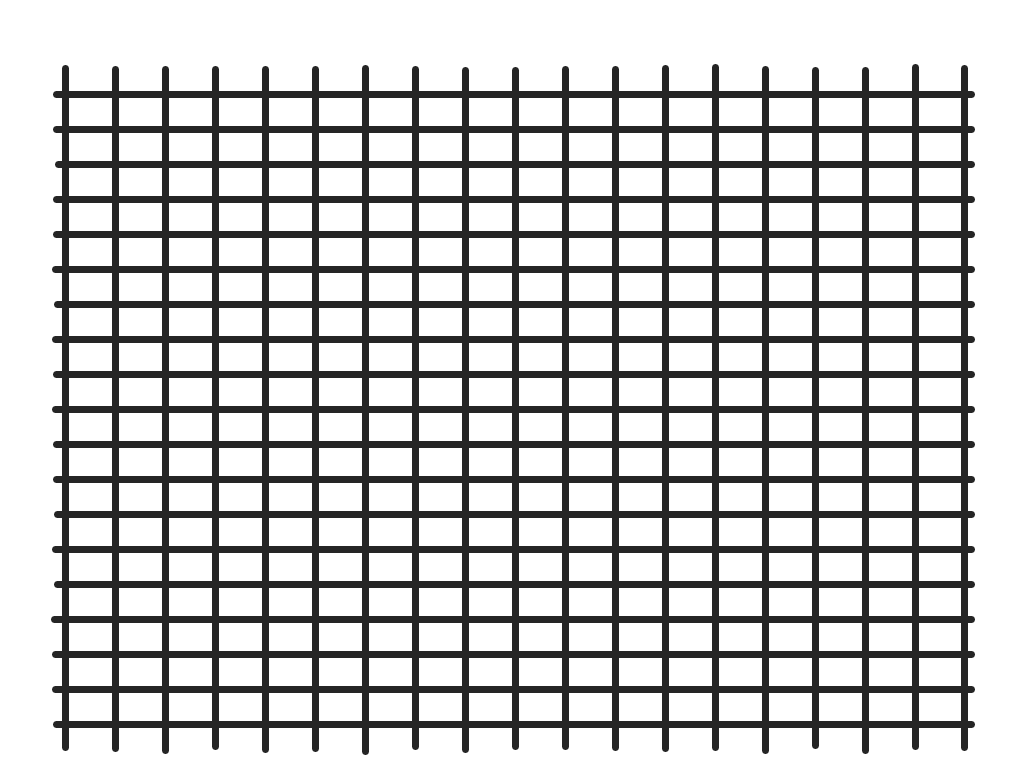
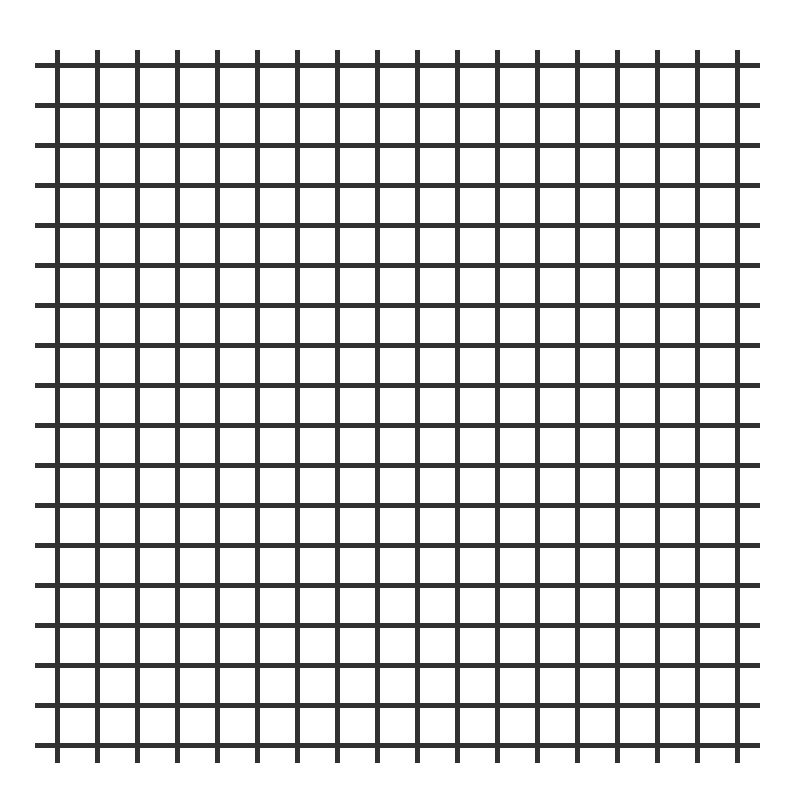
update goban.png and stone

diff --git a/src/GameState.cpp b/src/GameState.cpp
@@ -3,6 +3,9 @@
 
 #include "GameState.h"
 
+#define AXEX 300
+#define AXEY 190
+#define SPACE 40
 
 GameState::GameState(GameAction *gameAction, Gomoku::MainMenu::MODE mode) : AState(gameAction), _printer(_goban), _black(nullptr), _white(nullptr)
 {
@@ -63,21 +66,23 @@ void					GameState::averagePosition(Stone &p, int *x2, int *y2) {
 	int					x;
 	int					y;
 
-	p.y < 195 ? p.y = 195 : p.y;
-	p.x < 215 ? p.x = 215 : p.x;
+	p.y < AXEY ? p.y = AXEY : p.y;
+	p.x < AXEX ? p.x = AXEX : p.x;
 	
-	y = (p.y - 195) % 35;
-	x = (p.x - 215) % 50;
-	if (y <= (35 / 2))
-		*y2 = p.y - (y % 35);
+	y = (p.y - AXEY) % SPACE;
+	x = (p.x - AXEX) % SPACE;
+	if (y <= (SPACE / 2))
+		*y2 = p.y - (y % SPACE);
 	else
-		*y2 = p.y - (y % 35) + 35;
-	if (x < (50 / 2))
-		*x2 = p.x - (x % 50);
+		*y2 = p.y - (y % SPACE) + SPACE;
+	if (x < (SPACE / 2))
+		*x2 = p.x - (x % SPACE);
 	else
-		*x2 = p.x - (x % 50) + 50;
+		*x2 = p.x - (x % SPACE) + SPACE;
 	p.x = *x2;
 	p.y = *y2;
+	std::cout << "x = " << p.x << " y = " << p.y << std::endl;
+	std::cout << "x2 = " << *x2 << " y2 = " << *y2 << std::endl;
 }
 
 bool						GameState::handleKeyEvent(const sf::Event &event)
@@ -107,7 +112,8 @@ bool						GameState::handleKeyEvent(const sf::Event &event)
 			Stone					stone;
 			stone.x = event.mouseButton.x;
 			stone.y = event.mouseButton.y;
-			if (stone.x > 1130 || stone.x < 180 || stone.y > 840 || stone.y < 180)
+			std::cout << stone.x << "||" << stone.y << std::endl;
+			if (stone.x > 1000 || stone.x < 290 || stone.y > 890 || stone.y < 180)
 				return true;
 			averagePosition(stone, &tmpX, &tmpY);
 			stone.x = tmpX;
@@ -119,7 +125,7 @@ bool						GameState::handleKeyEvent(const sf::Event &event)
 				// ludo function's 
 				//runModuleGame(stone);
 			}
-			//supprIndex(_moduleGame->getIndex());
+			supprIndex(_goban.getIndex());
 		}
 	}
 	return (true);
@@ -140,7 +146,7 @@ void					GameState::runModuleGame(Stone &stone) {
 	if (not _goban.isGameOver()) {
 		// _move = _currentPlayer->getMove();
 		// std::cout << "x = " << stone.x << " y = " << stone.y << std::endl;
-		if (not _goban.setStone(_currentPlayer->getColor(), Calcul::findX(stone.x - 215), Calcul::findY(stone.y - 195))) {
+		if (not _goban.setStone(_currentPlayer->getColor(), Calcul::findX(stone.x - AXEX), Calcul::findY(stone.y - AXEY))) {
 		  _printer.printIllegalMove();
 		  return;
 		}
@@ -172,8 +178,8 @@ bool					GameState::putStone(Stone &p, const PlayerColor &player)
 {
 	Stone stone;
 	
-	stone.x = Calcul::findX(p.x - 215);
-	stone.y = Calcul::findY(p.y - 195);
+	stone.x = Calcul::findX(p.x - AXEX);
+	stone.y = Calcul::findY(p.y - AXEY);
 	if (player == PlayerColor::BLACK)
 	{
 		 if (checkPosition(stone) != false) {

diff --git a/src/GameSpecificFactory.cpp b/src/GameSpecificFactory.cpp
@@ -162,7 +162,7 @@ void								GameSpecificFactory::createHUD(unsigned int *id, World &world, const
 
 	id[Gomoku::GAME::GOBAN] = world.createEmptyEntity();
 	world.addRenderComponent(id[Gomoku::GAME::GOBAN], ComponentFactory::createRenderComponent(_resourceManager.getTexture("ressources/goban.png"), RenderComponent::Plane::DEFAULT));
-	world.addTransformComponent(id[Gomoku::GAME::GOBAN], ComponentFactory::createTransformComponent(sf::Vector2f(1024, 768), sf::Vector2f(150,100)));
+	world.addTransformComponent(id[Gomoku::GAME::GOBAN], ComponentFactory::createTransformComponent(sf::Vector2f(800, 800), sf::Vector2f(242,125)));
 }
 
 // PLAYER

diff --git a/src/Calcul.cpp b/src/Calcul.cpp
@@ -5,7 +5,7 @@ unsigned int 	Calcul::findX(unsigned int pos) {
 	unsigned int ret = 0;
 	while (tmp > 0) {
 		ret++;
-		tmp -= 50;	
+		tmp -= 40;	
 	}
 	return (ret);
 }
@@ -15,7 +15,7 @@ unsigned int 	Calcul::findY(unsigned int pos) {
 	unsigned int ret = 0;
 	while (tmp > 0) {
 		ret++;
-		tmp -= 35;
+		tmp -= 40;
 	}
 	return (ret);
 }
